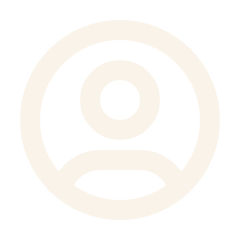
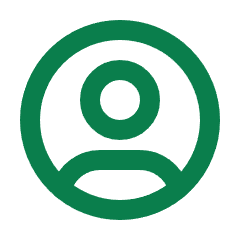
FEAT: Crea modelo de publicación

diff --git a/src/gui/componentes.py b/src/gui/componentes.py
@@ -75,6 +75,139 @@ class CTkDatePicker(ctk.CTkToplevel):
                       self.height, x_pos, y_pos))
 
 
+class MostrarPublicacion:
+    def __init__(self, contenedor, titulo, descripcion, creador, fecha_creacion, fecha_evento, ubicacion):
+        self.contenedor = contenedor
+        self.titulo = titulo
+        self.descripcion = descripcion
+        self.creador = creador
+        self.fecha_creacion = fecha_creacion
+        self.fecha_evento = fecha_evento
+        self.ubicacion = ubicacion
+        self.contador_votos = 0
+
+        self.tarjeta_frame = self.tarjeta_publicacion()
+
+    def tarjeta_publicacion(self):
+        # Crear un frame para la tarjeta de publicación
+        tarjeta_frame = ctk.CTkFrame(
+            master=self.contenedor,
+            fg_color=COLOR_BG,
+            corner_radius=15,
+            border_color=COLOR_PRIMARIO_HOVER,
+            border_width=2)
+        tarjeta_frame.pack(padx=190, pady=20, expand=False, fill="x")
+
+        # Titulo de la tarjeta
+        titulo_frame = ctk.CTkFrame(
+            tarjeta_frame, fg_color=COLOR_PRIMARIO_HOVER, corner_radius=8)
+        titulo_frame.pack(pady=(0, 15), padx=0, fill="x")
+
+        titulo_label = ctk.CTkLabel(titulo_frame, text=self.titulo, text_color=COLOR_BG,
+                                    font=("Roboto", 16, "bold"), height=40)
+        titulo_label.pack(expand=True)
+
+        # Descripción de la tarjeta
+        self.descripcion_label = ctk.CTkLabel(tarjeta_frame, text=self.descripcion,
+                                              font=("Roboto", 14), text_color="#333333",
+                                              anchor="w", justify="left")
+        self.descripcion_label.pack(pady=(0, 10), padx=20, anchor="w")
+
+        # Ajustar el wraplength dinámicamente después de renderizar el frame
+        tarjeta_frame.bind("<Configure>", self.ajustar_wraplength)
+
+        # Frame de información
+        info_frame = ctk.CTkFrame(tarjeta_frame, fg_color="transparent")
+        info_frame.pack(fill="x", padx=15, pady=10)
+
+        # Creador
+        creador_label = ctk.CTkLabel(info_frame, text=f" Creador: {self.creador}",
+                                     font=("Roboto", 12, "bold"), compound="left", image=crear_imagen("src/assets/user-circle.png"), text_color=COLOR_PRIMARIO_HOVER)
+        creador_label.grid(row=0, column=0, padx=5, pady=0, sticky="w")
+
+        # Fecha de creación
+        fecha_creacion_label = ctk.CTkLabel(info_frame, text=f" Fecha de creación: {self.fecha_creacion}",
+                                            font=("Roboto", 12, "bold"), compound="left", image=crear_imagen("src/assets/calendar-user.png"), text_color=COLOR_PRIMARIO_HOVER)
+        fecha_creacion_label.grid(row=1, column=0, padx=5, pady=0, sticky="w")
+
+        # Fecha del evento
+        fecha_evento_label = ctk.CTkLabel(info_frame, text=f" Fecha del evento: {self.fecha_evento}",
+                                          font=("Roboto", 12, "bold"), compound="left", image=crear_imagen("src/assets/calendar-stats.png"), text_color=COLOR_PRIMARIO_HOVER)
+        fecha_evento_label.grid(row=1, column=1, padx=5, pady=0, sticky="e")
+
+        # Ubicación
+        ubicacion_label = ctk.CTkLabel(info_frame, text=f" Ubicación: {self.ubicacion}",
+                                       font=("Roboto", 12, "bold"), compound="left", image=crear_imagen("src/assets/map.png"), text_color=COLOR_PRIMARIO_HOVER)
+        ubicacion_label.grid(row=0, column=1, padx=5, pady=0, sticky="e")
+
+        # Ajuste de las columnas para que ocupen el ancho total
+        info_frame.columnconfigure(0, weight=1)
+        info_frame.columnconfigure(1, weight=1)
+
+        # Sección de votos
+        votos_frame = ctk.CTkFrame(tarjeta_frame, fg_color="transparent")
+        votos_frame.pack(padx=15, pady=(10, 0), fill="x")
+
+        # Botón de voto positivo
+        boton_voto_positivo = ctk.CTkButton(
+            votos_frame,
+            text="Votar Positivo",
+            fg_color=COLOR_PRIMARIO_HOVER,
+            height=34,
+            text_color=COLOR_BG,
+            corner_radius=8,
+            font=("Roboto", 14, "bold"),
+            command=lambda: self.votar(),
+            compound="left",
+            image=crear_imagen("src/assets/thumb-up.png"),
+        )
+        boton_voto_positivo.pack(side="left", fill="x", padx=5, expand=True)
+
+        # Contador de votos
+        self.contador_label = ctk.CTkLabel(
+            votos_frame,
+            text=f"{self.contador_votos}",
+            font=("Roboto", 14, "bold"),
+            height=34,
+            text_color=COLOR_BG,
+            corner_radius=80,
+            fg_color=COLOR_PRIMARIO_HOVER,
+        )
+        self.contador_label.pack(side="left", padx=10)
+
+        # Botón "Voy a participar"
+        boton_participar = ctk.CTkButton(
+            votos_frame,
+            text="Voy a Participar",
+            fg_color=COLOR_PRIMARIO_HOVER,
+            text_color=COLOR_BG,
+            height=34,
+            corner_radius=10,
+            font=("Roboto", 14, "bold"),
+            command=lambda: self.participar(),
+            compound="right",
+            image=crear_imagen("src/assets/mood-plus.png"),
+        )
+        boton_participar.pack(side="left", fill="x", padx=5, expand=True)
+
+        return tarjeta_frame
+
+    def ajustar_wraplength(self, event):
+        # Calcular el ancho de la tarjeta y ajustar el wraplength dinámicamente
+        ancho_tarjeta = self.tarjeta_frame.winfo_width() - 30  # Resta márgenes
+        self.descripcion_label.configure(wraplength=ancho_tarjeta)
+
+    def votar(self):
+        self.contador_votos += 1
+        self.actualizar_contador()
+
+    def participar(self):
+        print("Participo en el evento.")
+
+    def actualizar_contador(self):
+        self.contador_label.configure(text=f"{self.contador_votos}")
+
+
 def crear_boton(parent, text, command=None, width=350, pady=20, **kwargs):
     boton = ctk.CTkButton(
         parent,
@@ -149,6 +282,6 @@ def crear_label(parent, text="", pady=10, font=("Roboto", 14), **kwargs):
         compound="left",
         **kwargs
     )
-    label.pack(pady=pady)
+    label.pack(pady=pady, padx=170, fill="x")
 
     return label

diff --git a/src/gui/inicio.py b/src/gui/inicio.py
@@ -40,7 +40,7 @@ class InicioFrame(ctk.CTkFrame):
 
         self.botones_sideframe["perfil"] = crear_boton_sideframe(
             centrar_frame, text="Mi perfil", command=self.perfil,
-            image=crear_imagen("src/assets/user-circle.png")
+            image=crear_imagen("src/assets/user-circle-white.png")
         )
 
         self.botones_sideframe["configuracion"] = crear_boton_sideframe(
@@ -77,6 +77,16 @@ class InicioFrame(ctk.CTkFrame):
         frame_inicio = ctk.CTkScrollableFrame(master=self, fg_color=COLOR_BG)
         crear_label(
             frame_inicio, text="Inicio", font=("Roboto", 32, "bold"), pady=(30, 10),
+        )
+
+        MostrarPublicacion(
+            contenedor=frame_inicio,
+            titulo="Título del Evento",
+            descripcion="Lorem ipsum dolor sit amet, consectetur adipiscing elit, sed do eiusmod tempor incididunt ut labore et dolore magna aliqua. Ut enim ad minim veniam, quis nostrud exercitation ullamco laboris nisi ut aliquip ex ea commodo consequat. Duis aute irure dolor in reprehenderit in voluptate velit esse cillum dolore eu fugiat nulla pariatur. Excepteur sint occaecat cupidatat non proident, sunt in culpa qui officia deserunt mollit anim id est laborum.",
+            creador="Juan Perez",
+            fecha_creacion="18/10/2023",
+            fecha_evento="25/10/2024",
+            ubicacion="Ubicación 1234"
         )
 
         self.cambiar_contenido(frame_inicio, "inicio")
@@ -149,15 +159,15 @@ class InicioFrame(ctk.CTkFrame):
 
     def enviar_publicacion(self):
         # Obtener los datos de los campos de entrada
-        titulo = self.entry_titulo.get()
-        descripcion = self.entry_texto.get("1.0", "end").strip()
-        ubicacion = self.entry_ubicacion.get()
-        fecha = self.entry_fecha.get()
+        self.titulo = self.entry_titulo.get()
+        self.descripcion = self.entry_texto.get("1.0", "end").strip()
+        self.ubicacion = self.entry_ubicacion.get()
+        self.fecha = self.entry_fecha.get()
 
-        print(f"Título: {titulo}")
-        print(f"Descripción: {descripcion}")
-        print(f"Ubicación: {ubicacion}")
-        print(f"Fecha del evento: {fecha}")
+        print(f"Título: {self.titulo}")
+        print(f"Descripción: {self.descripcion}")
+        print(f"Ubicación: {self.ubicacion}")
+        print(f"Fecha del evento: {self.fecha}")
 
     def perfil(self):
         frame_perfil = ctk.CTkFrame(master=self, fg_color=COLOR_BG)
